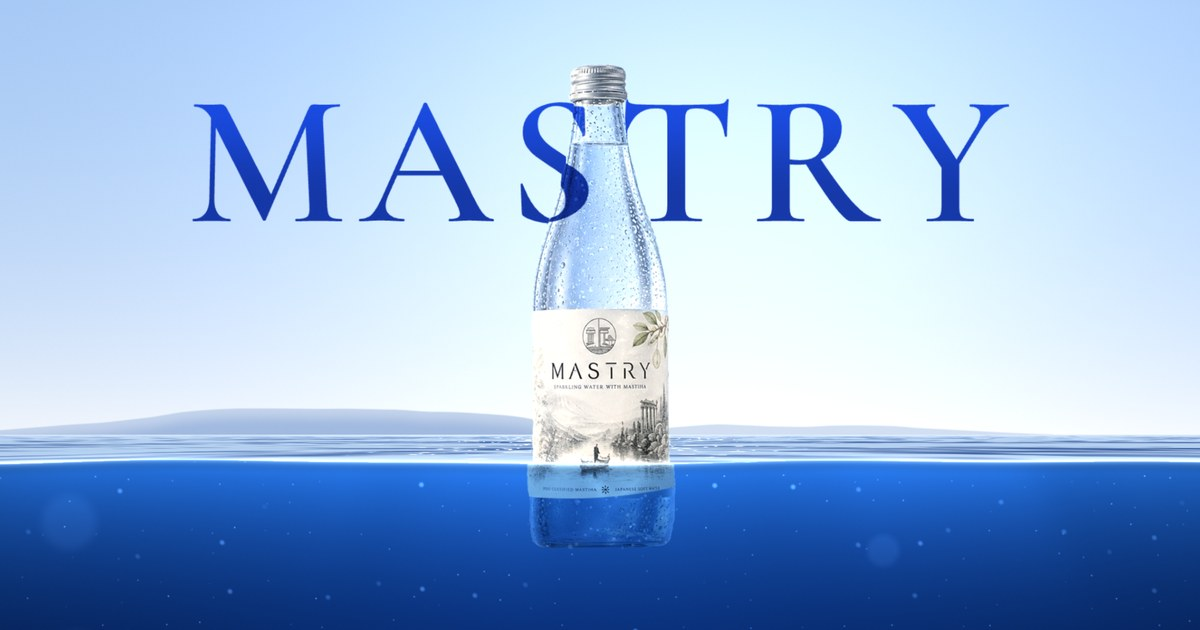
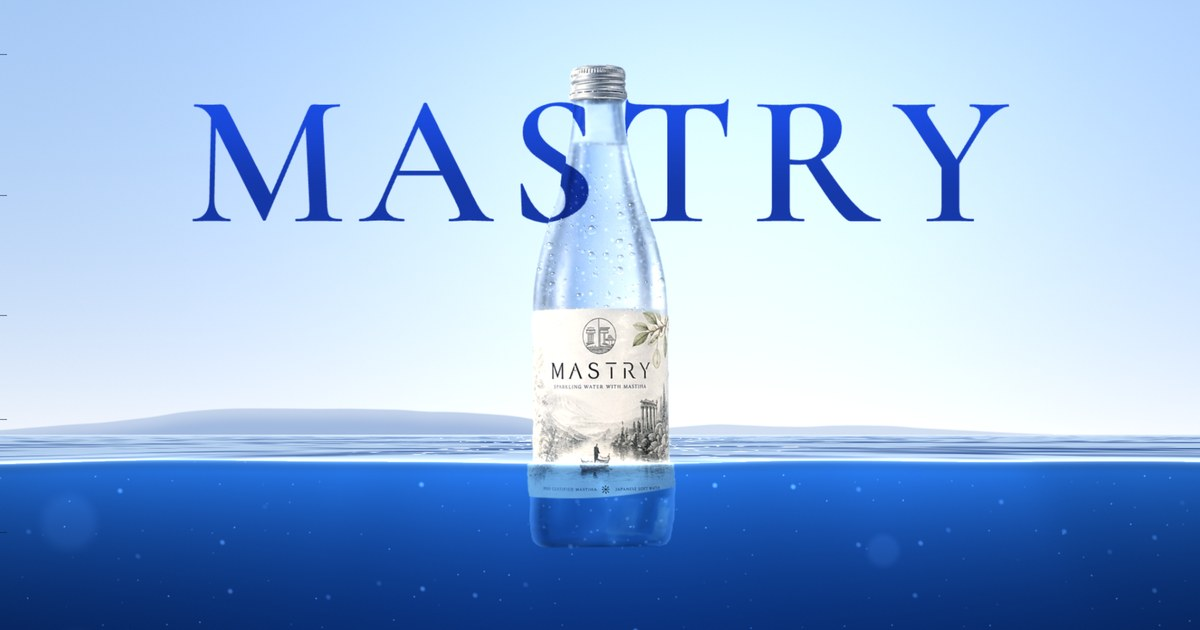
fix(dive): condensation only where the liquid is
Beads were drawn over all of the glass, including the neck above the
liquid's surface. Condensation needs cold glass: it forms where the liquid
touches it and no higher.

- Each bead is now placed or left out as a whole, by where its cell sits:
  none above the liquid's surface, thinning just under it.
- The strip of glass under the cap still carried the photographed drops
  (it was masked as part of the cap); the cap mask now ends at the metal
  and that glass is cleaned like the rest (bottle-n3, bottle-m2).
- The no-WebGL cut-out is made from the same clean glass (bottle-cut2).
- Share images re-rendered from the corrected bottle (og.jpg?v=3,
  og-dive.jpg?v=2).

diff --git a/index.html b/index.html
@@ -7,11 +7,11 @@
 <link rel="canonical" href="https://mastry.jp/" />
 <meta property="og:title" content="MASTRY — 静けさを飲むプレミアム・スパークリングウォーター" />
 <meta property="og:description" content="ギリシャ・ヒオス島のマスティハと日本の湧水から生まれた、砂糖不使用のプレミアム・スパークリングウォーター。数量限定の初回ロット、先行登録受付中。" />
-<meta property="og:image" content="https://mastry.jp/assets/og.jpg?v=2" />
+<meta property="og:image" content="https://mastry.jp/assets/og.jpg?v=3" />
 <meta property="og:url" content="https://mastry.jp/" />
 <meta property="og:type" content="website"><meta property="og:site_name" content="MASTRY"><meta property="og:locale" content="ja_JP"><meta property="og:locale:alternate" content="en_US"><meta property="og:image:width" content="1200"><meta property="og:image:height" content="630">
 <meta name="twitter:card" content="summary_large_image" />
-<meta name="twitter:title" content="MASTRY — 静けさを飲むプレミアム・スパークリングウォーター"><meta name="twitter:description" content="ギリシャ・ヒオス島のマスティハと日本の湧水から生まれた、砂糖不使用のプレミアム・スパークリングウォーター。数量限定の初回ロット、先行登録受付中。"><meta name="twitter:image" content="https://mastry.jp/assets/og.jpg?v=2">
+<meta name="twitter:title" content="MASTRY — 静けさを飲むプレミアム・スパークリングウォーター"><meta name="twitter:description" content="ギリシャ・ヒオス島のマスティハと日本の湧水から生まれた、砂糖不使用のプレミアム・スパークリングウォーター。数量限定の初回ロット、先行登録受付中。"><meta name="twitter:image" content="https://mastry.jp/assets/og.jpg?v=3">
 <script>/* THE DIVE opening gate (per session) */(function(){try{
   if(location.hash||/[?&]nodive/.test(location.search))return;        /* アンカー/明示スキップ */
   if(/bot|crawl|spider|lighthouse|preview/i.test(navigator.userAgent))return; /* 検索エンジン除外 */
@@ -27,7 +27,7 @@
 document.documentElement.className+=' lang-pending';setTimeout(function(){document.documentElement.classList.remove('lang-pending')},3000);</script>
 <style>html.lang-pending body,html.to-dive body{visibility:hidden}</style>
 <link rel="icon" href="/favicon.svg" type="image/svg+xml"><link rel="apple-touch-icon" href="/apple-touch-icon.png">
-<script type="application/ld+json">[{"@context": "https://schema.org", "@type": "Organization", "name": "MASTRY", "legalName": "MASTRY合同会社", "url": "https://mastry.jp/", "logo": "https://mastry.jp/assets/logo-512.png", "image": "https://mastry.jp/assets/og.jpg?v=2", "description": "ギリシャ・ヒオス島のマスティハと日本の湧水から生まれたプレミアム・スパークリングウォーター。", "email": "hello@mastry.jp", "sameAs": ["https://line.me/R/ti/p/@469dufhi"], "address": {"@type": "PostalAddress", "streetAddress": "2762-121 Narachō, Aoba-ku", "addressLocality": "Yokohama", "addressRegion": "Kanagawa", "postalCode": "227-0036", "addressCountry": "JP"}}, {"@context": "https://schema.org", "@type": "WebSite", "name": "MASTRY", "url": "https://mastry.jp/", "inLanguage": ["ja", "en"]}]</script>
+<script type="application/ld+json">[{"@context": "https://schema.org", "@type": "Organization", "name": "MASTRY", "legalName": "MASTRY合同会社", "url": "https://mastry.jp/", "logo": "https://mastry.jp/assets/logo-512.png", "image": "https://mastry.jp/assets/og.jpg?v=3", "description": "ギリシャ・ヒオス島のマスティハと日本の湧水から生まれたプレミアム・スパークリングウォーター。", "email": "hello@mastry.jp", "sameAs": ["https://line.me/R/ti/p/@469dufhi"], "address": {"@type": "PostalAddress", "streetAddress": "2762-121 Narachō, Aoba-ku", "addressLocality": "Yokohama", "addressRegion": "Kanagawa", "postalCode": "227-0036", "addressCountry": "JP"}}, {"@context": "https://schema.org", "@type": "WebSite", "name": "MASTRY", "url": "https://mastry.jp/", "inLanguage": ["ja", "en"]}]</script>
 <link rel="preconnect" href="https://fonts.googleapis.com">
 <link rel="preconnect" href="https://fonts.gstatic.com" crossorigin="">
 <link rel="stylesheet" href="https://fonts.googleapis.com/css2?family=Cormorant+Garamond:ital,wght@0,300;0,400;0,500;0,600;1,300;1,400&amp;family=Jost:wght@300;400;500&amp;family=Space+Mono:wght@400;700&amp;family=Zen+Old+Mincho:wght@400;500;600;700&amp;display=swap&amp;subset=greek,latin,japanese" media="print" onload="this.media='all'"><noscript><link rel="stylesheet" href="https://fonts.googleapis.com/css2?family=Cormorant+Garamond:ital,wght@0,300;0,400;0,500;0,600;1,300;1,400&amp;family=Jost:wght@300;400;500&amp;family=Space+Mono:wght@400;700&amp;family=Zen+Old+Mincho:wght@400;500;600;700&amp;display=swap&amp;subset=greek,latin,japanese"></noscript>

diff --git a/story.html b/story.html
@@ -21,14 +21,14 @@
 <meta property="og:title" content="MASTRY — 木の涙 · Tears of the Tree" />
 <meta property="og:description" content="MASTRY（マストライ）— ギリシャ・ヒオス島の希少なマスティハと日本のやわらかな湧水から生まれた、プレミアム・スパークリングウォーター。砂糖不使用。" />
 <meta property="og:url" content="https://mastry.jp/story.html" />
-<meta property="og:image" content="https://mastry.jp/assets/og.jpg?v=2" />
+<meta property="og:image" content="https://mastry.jp/assets/og.jpg?v=3" />
 <meta property="og:image:width" content="1200" /><meta property="og:image:height" content="630" />
 <meta property="og:locale" content="ja_JP" /><meta property="og:locale:alternate" content="en_US" />
 <meta name="twitter:card" content="summary_large_image" />
 <meta name="twitter:title" content="MASTRY — 木の涙 · Tears of the Tree" />
 <meta name="twitter:description" content="MASTRY（マストライ）— ギリシャ・ヒオス島の希少なマスティハと日本のやわらかな湧水から生まれた、プレミアム・スパークリングウォーター。砂糖不使用。" />
-<meta name="twitter:image" content="https://mastry.jp/assets/og.jpg?v=2" />
-<script type="application/ld+json">[{"@context": "https://schema.org", "@type": "Organization", "name": "MASTRY", "legalName": "MASTRY合同会社", "url": "https://mastry.jp/", "logo": "https://mastry.jp/assets/logo-512.png", "image": "https://mastry.jp/assets/og.jpg?v=2", "description": "ギリシャ・ヒオス島のマスティハと日本の湧水から生まれたプレミアム・スパークリングウォーター。", "email": "hello@mastry.jp", "sameAs": ["https://line.me/R/ti/p/@469dufhi"], "address": {"@type": "PostalAddress", "streetAddress": "2762-121 Narachō, Aoba-ku", "addressLocality": "Yokohama", "addressRegion": "Kanagawa", "postalCode": "227-0036", "addressCountry": "JP"}}, {"@context": "https://schema.org", "@type": "WebSite", "name": "MASTRY", "url": "https://mastry.jp/", "inLanguage": ["ja", "en"]}]</script>
+<meta name="twitter:image" content="https://mastry.jp/assets/og.jpg?v=3" />
+<script type="application/ld+json">[{"@context": "https://schema.org", "@type": "Organization", "name": "MASTRY", "legalName": "MASTRY合同会社", "url": "https://mastry.jp/", "logo": "https://mastry.jp/assets/logo-512.png", "image": "https://mastry.jp/assets/og.jpg?v=3", "description": "ギリシャ・ヒオス島のマスティハと日本の湧水から生まれたプレミアム・スパークリングウォーター。", "email": "hello@mastry.jp", "sameAs": ["https://line.me/R/ti/p/@469dufhi"], "address": {"@type": "PostalAddress", "streetAddress": "2762-121 Narachō, Aoba-ku", "addressLocality": "Yokohama", "addressRegion": "Kanagawa", "postalCode": "227-0036", "addressCountry": "JP"}}, {"@context": "https://schema.org", "@type": "WebSite", "name": "MASTRY", "url": "https://mastry.jp/", "inLanguage": ["ja", "en"]}]</script>
 <link rel="icon" href="/favicon.svg" type="image/svg+xml"><link rel="apple-touch-icon" href="/apple-touch-icon.png">
 <link rel="preconnect" href="https://fonts.googleapis.com">
 <link rel="preconnect" href="https://fonts.gstatic.com" crossorigin>

diff --git a/journal/sushi-sparkling-water-pairing.html b/journal/sushi-sparkling-water-pairing.html
@@ -8,12 +8,12 @@
 <link rel="canonical" href="https://mastry.jp/journal/sushi-sparkling-water-pairing.html">
 <meta property="og:title" content="寿司と炭酸水のペアリング——日本の食卓に合う発泡水の選び方">
 <meta property="og:description" content="寿司に合う炭酸水とは。ネタの繊細な味わいを消さず、口の中をすっと整える。寿司と炭酸水のペアリングの考え方と、日本の食卓に合う発泡水の選び方をまとめました。">
-<meta property="og:image" content="https://mastry.jp/assets/og.jpg?v=2">
+<meta property="og:image" content="https://mastry.jp/assets/og.jpg?v=3">
 <meta property="og:type" content="article">
 <meta property="og:url" content="https://mastry.jp/journal/sushi-sparkling-water-pairing.html">
 <meta property="og:site_name" content="MASTRY">
 <meta name="twitter:card" content="summary_large_image">
-<script type="application/ld+json">{"@context":"https://schema.org","@type":"Article","headline":"寿司と炭酸水のペアリング——日本の食卓に合う発泡水の選び方","description":"寿司に合う炭酸水とは。ネタの繊細な味わいを消さず、口の中をすっと整える。寿司と炭酸水のペアリングの考え方と、日本の食卓に合う発泡水の選び方をまとめました。","datePublished":"2026-07-07","author":{"@type":"Organization","name":"MASTRY合同会社"},"publisher":{"@type":"Organization","name":"MASTRY合同会社","logo":{"@type":"ImageObject","url":"https://mastry.jp/assets/logo-512.png"}},"image":"https://mastry.jp/assets/og.jpg?v=2","mainEntityOfPage":"https://mastry.jp/journal/sushi-sparkling-water-pairing.html"}</script>
+<script type="application/ld+json">{"@context":"https://schema.org","@type":"Article","headline":"寿司と炭酸水のペアリング——日本の食卓に合う発泡水の選び方","description":"寿司に合う炭酸水とは。ネタの繊細な味わいを消さず、口の中をすっと整える。寿司と炭酸水のペアリングの考え方と、日本の食卓に合う発泡水の選び方をまとめました。","datePublished":"2026-07-07","author":{"@type":"Organization","name":"MASTRY合同会社"},"publisher":{"@type":"Organization","name":"MASTRY合同会社","logo":{"@type":"ImageObject","url":"https://mastry.jp/assets/logo-512.png"}},"image":"https://mastry.jp/assets/og.jpg?v=3","mainEntityOfPage":"https://mastry.jp/journal/sushi-sparkling-water-pairing.html"}</script>
 <link rel="icon" href="/favicon.svg" type="image/svg+xml"><link rel="apple-touch-icon" href="/apple-touch-icon.png">
 <link rel="preconnect" href="https://fonts.googleapis.com"><link rel="preconnect" href="https://fonts.gstatic.com" crossorigin>
 <link rel="stylesheet" href="https://fonts.googleapis.com/css2?family=Cormorant+Garamond:wght@500&family=Zen+Old+Mincho:wght@400;600&display=swap" media="print" onload="this.media='all'"><noscript><link rel="stylesheet" href="https://fonts.googleapis.com/css2?family=Cormorant+Garamond:wght@500&family=Zen+Old+Mincho:wght@400;600&display=swap"></noscript>

diff --git a/journal/sober-curious.html b/journal/sober-curious.html
@@ -8,12 +8,12 @@
 <link rel="canonical" href="https://mastry.jp/journal/sober-curious.html">
 <meta property="og:title" content="ソバーキュリアスとは——「あえて飲まない」を選ぶ夜の一杯">
 <meta property="og:description" content="ソバーキュリアスとは、あえてお酒を飲まないという選択のこと。言葉の認知は約1割でも、実際に「飲まない日」を選ぶ人は4割を超えます。飲まない夜に寄り添う一杯の選び方を。">
-<meta property="og:image" content="https://mastry.jp/assets/og.jpg?v=2">
+<meta property="og:image" content="https://mastry.jp/assets/og.jpg?v=3">
 <meta property="og:type" content="article">
 <meta property="og:url" content="https://mastry.jp/journal/sober-curious.html">
 <meta property="og:site_name" content="MASTRY">
 <meta name="twitter:card" content="summary_large_image">
-<script type="application/ld+json">{"@context":"https://schema.org","@type":"Article","headline":"ソバーキュリアスとは——「あえて飲まない」を選ぶ夜の一杯","description":"ソバーキュリアスとは、あえてお酒を飲まないという選択のこと。言葉の認知は約1割でも、実際に「飲まない日」を選ぶ人は4割を超えます。飲まない夜に寄り添う一杯の選び方を考えます。","datePublished":"2026-07-07","author":{"@type":"Organization","name":"MASTRY合同会社"},"publisher":{"@type":"Organization","name":"MASTRY合同会社","logo":{"@type":"ImageObject","url":"https://mastry.jp/assets/logo-512.png"}},"image":"https://mastry.jp/assets/og.jpg?v=2","mainEntityOfPage":"https://mastry.jp/journal/sober-curious.html"}</script>
+<script type="application/ld+json">{"@context":"https://schema.org","@type":"Article","headline":"ソバーキュリアスとは——「あえて飲まない」を選ぶ夜の一杯","description":"ソバーキュリアスとは、あえてお酒を飲まないという選択のこと。言葉の認知は約1割でも、実際に「飲まない日」を選ぶ人は4割を超えます。飲まない夜に寄り添う一杯の選び方を考えます。","datePublished":"2026-07-07","author":{"@type":"Organization","name":"MASTRY合同会社"},"publisher":{"@type":"Organization","name":"MASTRY合同会社","logo":{"@type":"ImageObject","url":"https://mastry.jp/assets/logo-512.png"}},"image":"https://mastry.jp/assets/og.jpg?v=3","mainEntityOfPage":"https://mastry.jp/journal/sober-curious.html"}</script>
 <link rel="icon" href="/favicon.svg" type="image/svg+xml"><link rel="apple-touch-icon" href="/apple-touch-icon.png">
 <link rel="preconnect" href="https://fonts.googleapis.com"><link rel="preconnect" href="https://fonts.gstatic.com" crossorigin>
 <link rel="stylesheet" href="https://fonts.googleapis.com/css2?family=Cormorant+Garamond:wght@500&family=Zen+Old+Mincho:wght@400;600&display=swap" media="print" onload="this.media='all'"><noscript><link rel="stylesheet" href="https://fonts.googleapis.com/css2?family=Cormorant+Garamond:wght@500&family=Zen+Old+Mincho:wght@400;600&display=swap"></noscript>

diff --git a/journal/non-alcoholic-gift.html b/journal/non-alcoholic-gift.html
@@ -8,12 +8,12 @@
 <link rel="canonical" href="https://mastry.jp/journal/non-alcoholic-gift.html">
 <meta property="og:title" content="ノンアルコールのギフトという選択——お酒を飲まない人への贈り物">
 <meta property="og:description" content="お酒を飲まない人へ何を贈るか。ノンアルコールのギフトが選ばれる背景と、相手の時間に寄り添う一本の選び方を、マスティハ・スパークリングウォーターの視点から。">
-<meta property="og:image" content="https://mastry.jp/assets/og.jpg?v=2">
+<meta property="og:image" content="https://mastry.jp/assets/og.jpg?v=3">
 <meta property="og:type" content="article">
 <meta property="og:url" content="https://mastry.jp/journal/non-alcoholic-gift.html">
 <meta property="og:site_name" content="MASTRY">
 <meta name="twitter:card" content="summary_large_image">
-<script type="application/ld+json">{"@context":"https://schema.org","@type":"Article","headline":"ノンアルコールのギフトという選択——お酒を飲まない人への贈り物","description":"お酒を飲まない人へ何を贈るか。ノンアルコールのギフトが選ばれる背景と、相手の時間に寄り添う一本の選び方を、マスティハ・スパークリングウォーターの視点から。","datePublished":"2026-06-25","author":{"@type":"Organization","name":"MASTRY合同会社"},"publisher":{"@type":"Organization","name":"MASTRY合同会社","logo":{"@type":"ImageObject","url":"https://mastry.jp/assets/logo-512.png"}},"image":"https://mastry.jp/assets/og.jpg?v=2","mainEntityOfPage":"https://mastry.jp/journal/non-alcoholic-gift.html"}</script>
+<script type="application/ld+json">{"@context":"https://schema.org","@type":"Article","headline":"ノンアルコールのギフトという選択——お酒を飲まない人への贈り物","description":"お酒を飲まない人へ何を贈るか。ノンアルコールのギフトが選ばれる背景と、相手の時間に寄り添う一本の選び方を、マスティハ・スパークリングウォーターの視点から。","datePublished":"2026-06-25","author":{"@type":"Organization","name":"MASTRY合同会社"},"publisher":{"@type":"Organization","name":"MASTRY合同会社","logo":{"@type":"ImageObject","url":"https://mastry.jp/assets/logo-512.png"}},"image":"https://mastry.jp/assets/og.jpg?v=3","mainEntityOfPage":"https://mastry.jp/journal/non-alcoholic-gift.html"}</script>
 <link rel="icon" href="/favicon.svg" type="image/svg+xml"><link rel="apple-touch-icon" href="/apple-touch-icon.png">
 <link rel="preconnect" href="https://fonts.googleapis.com"><link rel="preconnect" href="https://fonts.gstatic.com" crossorigin>
 <link rel="stylesheet" href="https://fonts.googleapis.com/css2?family=Cormorant+Garamond:wght@500&family=Zen+Old+Mincho:wght@400;600&display=swap" media="print" onload="this.media='all'"><noscript><link rel="stylesheet" href="https://fonts.googleapis.com/css2?family=Cormorant+Garamond:wght@500&family=Zen+Old+Mincho:wght@400;600&display=swap"></noscript>

diff --git a/journal/sauna-sparkling-water.html b/journal/sauna-sparkling-water.html
@@ -8,12 +8,12 @@
 <link rel="canonical" href="https://mastry.jp/journal/sauna-sparkling-water.html">
 <meta property="og:title" content="サウナ後の一杯に炭酸水が合う理由——「ととのい」を壊さない選び方">
 <meta property="og:description" content="サウナ後の炭酸水はなぜおいしいのか。ととのいの余韻を壊さない一杯の選び方を、3つの目安で紹介します。">
-<meta property="og:image" content="https://mastry.jp/assets/og.jpg?v=2">
+<meta property="og:image" content="https://mastry.jp/assets/og.jpg?v=3">
 <meta property="og:type" content="article">
 <meta property="og:url" content="https://mastry.jp/journal/sauna-sparkling-water.html">
 <meta property="og:site_name" content="MASTRY">
 <meta name="twitter:card" content="summary_large_image">
-<script type="application/ld+json">{"@context":"https://schema.org","@type":"Article","headline":"サウナ後の一杯に炭酸水が合う理由——「ととのい」を壊さない選び方","description":"サウナ後の炭酸水はなぜおいしいのか。ととのいの余韻を壊さない一杯の選び方を、3つの目安で紹介します。","datePublished":"2026-06-11","author":{"@type":"Organization","name":"MASTRY合同会社"},"publisher":{"@type":"Organization","name":"MASTRY合同会社","logo":{"@type":"ImageObject","url":"https://mastry.jp/assets/logo-512.png"}},"image":"https://mastry.jp/assets/og.jpg?v=2","mainEntityOfPage":"https://mastry.jp/journal/sauna-sparkling-water.html"}</script>
+<script type="application/ld+json">{"@context":"https://schema.org","@type":"Article","headline":"サウナ後の一杯に炭酸水が合う理由——「ととのい」を壊さない選び方","description":"サウナ後の炭酸水はなぜおいしいのか。ととのいの余韻を壊さない一杯の選び方を、3つの目安で紹介します。","datePublished":"2026-06-11","author":{"@type":"Organization","name":"MASTRY合同会社"},"publisher":{"@type":"Organization","name":"MASTRY合同会社","logo":{"@type":"ImageObject","url":"https://mastry.jp/assets/logo-512.png"}},"image":"https://mastry.jp/assets/og.jpg?v=3","mainEntityOfPage":"https://mastry.jp/journal/sauna-sparkling-water.html"}</script>
 <link rel="icon" href="/favicon.svg" type="image/svg+xml"><link rel="apple-touch-icon" href="/apple-touch-icon.png">
 <link rel="preconnect" href="https://fonts.googleapis.com"><link rel="preconnect" href="https://fonts.gstatic.com" crossorigin>
 <link rel="stylesheet" href="https://fonts.googleapis.com/css2?family=Cormorant+Garamond:wght@500&family=Zen+Old+Mincho:wght@400;600&display=swap" media="print" onload="this.media='all'"><noscript><link rel="stylesheet" href="https://fonts.googleapis.com/css2?family=Cormorant+Garamond:wght@500&family=Zen+Old+Mincho:wght@400;600&display=swap"></noscript>

diff --git a/journal/what-is-mastiha.html b/journal/what-is-mastiha.html
@@ -8,12 +8,12 @@
 <link rel="canonical" href="https://mastry.jp/journal/what-is-mastiha.html">
 <meta property="og:title" content="マスティハとは——世界でただひとつの島が育てる「木の涙」の話">
 <meta property="og:description" content="マスティハとは何か。ギリシャ・ヒオス島だけで採れる希少樹脂の歴史、PDO認証、味と香りをやさしく解説します。">
-<meta property="og:image" content="https://mastry.jp/assets/og.jpg?v=2">
+<meta property="og:image" content="https://mastry.jp/assets/og.jpg?v=3">
 <meta property="og:type" content="article">
 <meta property="og:url" content="https://mastry.jp/journal/what-is-mastiha.html">
 <meta property="og:site_name" content="MASTRY">
 <meta name="twitter:card" content="summary_large_image">
-<script type="application/ld+json">{"@context":"https://schema.org","@type":"Article","headline":"マスティハとは——世界でただひとつの島が育てる「木の涙」の話","description":"マスティハとは何か。ギリシャ・ヒオス島だけで採れる希少樹脂の歴史、PDO認証、味と香りをやさしく解説します。","datePublished":"2026-06-11","author":{"@type":"Organization","name":"MASTRY合同会社"},"publisher":{"@type":"Organization","name":"MASTRY合同会社","logo":{"@type":"ImageObject","url":"https://mastry.jp/assets/logo-512.png"}},"image":"https://mastry.jp/assets/og.jpg?v=2","mainEntityOfPage":"https://mastry.jp/journal/what-is-mastiha.html"}</script>
+<script type="application/ld+json">{"@context":"https://schema.org","@type":"Article","headline":"マスティハとは——世界でただひとつの島が育てる「木の涙」の話","description":"マスティハとは何か。ギリシャ・ヒオス島だけで採れる希少樹脂の歴史、PDO認証、味と香りをやさしく解説します。","datePublished":"2026-06-11","author":{"@type":"Organization","name":"MASTRY合同会社"},"publisher":{"@type":"Organization","name":"MASTRY合同会社","logo":{"@type":"ImageObject","url":"https://mastry.jp/assets/logo-512.png"}},"image":"https://mastry.jp/assets/og.jpg?v=3","mainEntityOfPage":"https://mastry.jp/journal/what-is-mastiha.html"}</script>
 <link rel="icon" href="/favicon.svg" type="image/svg+xml"><link rel="apple-touch-icon" href="/apple-touch-icon.png">
 <link rel="preconnect" href="https://fonts.googleapis.com"><link rel="preconnect" href="https://fonts.gstatic.com" crossorigin>
 <link rel="stylesheet" href="https://fonts.googleapis.com/css2?family=Cormorant+Garamond:wght@500&family=Zen+Old+Mincho:wght@400;600&display=swap" media="print" onload="this.media='all'"><noscript><link rel="stylesheet" href="https://fonts.googleapis.com/css2?family=Cormorant+Garamond:wght@500&family=Zen+Old+Mincho:wght@400;600&display=swap"></noscript>

diff --git a/dive.html b/dive.html
@@ -17,19 +17,19 @@
 <link rel="canonical" href="https://mastry.jp/dive.html" />
 <meta property="og:title" content="MASTRY — The Dive ｜ 息を止めて、潜る。" />
 <meta property="og:description" content="スクロールで海へ。ヒオス島の木の涙が、日本の湧水に沈むまで。" />
-<meta property="og:image" content="https://mastry.jp/assets/og-dive.jpg" />
+<meta property="og:image" content="https://mastry.jp/assets/og-dive.jpg?v=2" />
 <meta property="og:image:width" content="1200" /><meta property="og:image:height" content="630" />
 <meta property="og:url" content="https://mastry.jp/dive.html" />
 <meta property="og:type" content="website" /><meta property="og:site_name" content="MASTRY" />
 <meta name="twitter:card" content="summary_large_image" />
-<meta name="twitter:image" content="https://mastry.jp/assets/og-dive.jpg" />
+<meta name="twitter:image" content="https://mastry.jp/assets/og-dive.jpg?v=2" />
 <meta name="theme-color" content="#cfe3f8" />
 <link rel="icon" href="/favicon.svg" type="image/svg+xml" />
 <link rel="apple-touch-icon" href="/apple-touch-icon.png" />
 <link rel="preconnect" href="https://fonts.googleapis.com" />
 <link rel="preconnect" href="https://fonts.gstatic.com" crossorigin />
-<link rel="preload" as="image" href="/assets/dive/bottle-n2.webp" type="image/webp" />
-<link rel="preload" as="image" href="/assets/dive/bottle-m.png" />
+<link rel="preload" as="image" href="/assets/dive/bottle-n3.webp" type="image/webp" />
+<link rel="preload" as="image" href="/assets/dive/bottle-m2.png" />
 <link href="https://fonts.googleapis.com/css2?family=Cormorant+Garamond:wght@500;600&amp;family=Jost:wght@300;400;500&amp;family=Zen+Old+Mincho:wght@400;600&amp;display=swap" rel="stylesheet" />
 <style>
 :root{
@@ -316,7 +316,7 @@ html{background:linear-gradient(#b9d4f4 0,#eaf1fb 7%,#0e3a7a 15%,#02060d 50%,#02
       <dt data-en="Sugar · sweeteners">砂糖・甘味料</dt><dd data-en="None">不使用</dd>
     </dl>
   </section>
-  <img class="fb-bottle" src="/assets/dive/bottle-cut.webp" alt="" width="236" height="815" loading="lazy" decoding="async" />
+  <img class="fb-bottle" src="/assets/dive/bottle-cut2.webp" alt="" width="236" height="815" loading="lazy" decoding="async" />
   <div class="cue" id="cue" aria-hidden="true"><span data-en="Scroll to dive">スクロールして潜る</span><i></i></div>
 
   <section class="beat v" id="b1" aria-hidden="true" data-screen-label="Dive — Plunge">
@@ -364,6 +364,6 @@ html{background:linear-gradient(#b9d4f4 0,#eaf1fb 7%,#0e3a7a 15%,#02060d 50%,#02
 <div class="runway" aria-hidden="true"></div>
 
 <script>try{sessionStorage.setItem('mastry-dived','1')}catch(e){}</script>
-<script src="/assets/dive.js?v=11"></script>
+<script src="/assets/dive.js?v=12"></script>
 </body>
 </html>

diff --git a/_agent/article_template.html b/_agent/article_template.html
@@ -8,12 +8,12 @@
 <link rel="canonical" href="https://mastry.jp/journal/{{SLUG}}.html">
 <meta property="og:title" content="{{TITLE}}">
 <meta property="og:description" content="{{DESCRIPTION}}">
-<meta property="og:image" content="https://mastry.jp/assets/og.jpg?v=2">
+<meta property="og:image" content="https://mastry.jp/assets/og.jpg?v=3">
 <meta property="og:type" content="article">
 <meta property="og:url" content="https://mastry.jp/journal/{{SLUG}}.html">
 <meta property="og:site_name" content="MASTRY">
 <meta name="twitter:card" content="summary_large_image">
-<script type="application/ld+json">{"@context":"https://schema.org","@type":"Article","headline":"{{TITLE}}","description":"{{DESCRIPTION}}","datePublished":"{{DATE}}","author":{"@type":"Organization","name":"MASTRY合同会社"},"publisher":{"@type":"Organization","name":"MASTRY合同会社","logo":{"@type":"ImageObject","url":"https://mastry.jp/assets/logo-512.png"}},"image":"https://mastry.jp/assets/og.jpg?v=2","mainEntityOfPage":"https://mastry.jp/journal/{{SLUG}}.html"}</script>
+<script type="application/ld+json">{"@context":"https://schema.org","@type":"Article","headline":"{{TITLE}}","description":"{{DESCRIPTION}}","datePublished":"{{DATE}}","author":{"@type":"Organization","name":"MASTRY合同会社"},"publisher":{"@type":"Organization","name":"MASTRY合同会社","logo":{"@type":"ImageObject","url":"https://mastry.jp/assets/logo-512.png"}},"image":"https://mastry.jp/assets/og.jpg?v=3","mainEntityOfPage":"https://mastry.jp/journal/{{SLUG}}.html"}</script>
 <link rel="icon" href="/favicon.svg" type="image/svg+xml"><link rel="apple-touch-icon" href="/apple-touch-icon.png">
 <link rel="preconnect" href="https://fonts.googleapis.com"><link rel="preconnect" href="https://fonts.gstatic.com" crossorigin>
 <link rel="stylesheet" href="https://fonts.googleapis.com/css2?family=Cormorant+Garamond:wght@500&family=Zen+Old+Mincho:wght@400;600&display=swap" media="print" onload="this.media='all'"><noscript><link rel="stylesheet" href="https://fonts.googleapis.com/css2?family=Cormorant+Garamond:wght@500&family=Zen+Old+Mincho:wght@400;600&display=swap"></noscript>

diff --git a/assets/dive.js b/assets/dive.js
@@ -428,7 +428,11 @@ vec4 dew(vec2 b,float n,float dens,float seed,float px){
   vec2 g=b*n;
   vec2 id=floor(g),f=fract(g);
   vec2 h=hash22(id+seed);
-  float on=step(1.-dens,hash12(id*1.31+seed+.7));
+  /* condensation needs cold glass: it forms where the liquid touches it, up to the liquid's surface in the neck and no higher */
+  vec2 cc=(id+.5)/n;
+  float top=.822+(noise(vec2(cc.x*55.,seed))-.5)*.016;
+  dens*=smoothstep(top,top-.07,cc.y+.5/n)*smoothstep(.0,.05,cc.y);
+  float on=step(1.-dens,hash12(id*1.31+seed+.7))*step(cc.y+.5/n,top);
   float r=mix(.14,.36,h.x*h.x);
   float tall=mix(1.,.78,h.y*h.y);
   vec2 rr=vec2(r,r/tall)+.02;
@@ -641,10 +645,9 @@ void main(){
     if(wet>.01){
       vec2 bq=q/H;
       float px=1./(uRes.y*H);
-      float thin=mix(.50,1.,smoothstep(.97,.72,bq.y))*smoothstep(.0,.05,bq.y);
-      g=dewOn(g,dew(bq,36.,.40*thin,3.1,px),wet);
-      g=dewOn(g,dew(bq+vec2(.013,.007),80.,.50*thin,7.7,px),wet);
-      if(uQ>.5)g=dewOn(g,dew(bq+vec2(.004,.019),168.,.44*thin,12.9,px),wet*.8);
+      g=dewOn(g,dew(bq,36.,.40,3.1,px),wet);
+      g=dewOn(g,dew(bq+vec2(.013,.007),80.,.50,7.7,px),wet);
+      if(uQ>.5)g=dewOn(g,dew(bq+vec2(.004,.019),168.,.44,12.9,px),wet*.8);
     }
     /* paper and metal, under whatever light there is */
     vec3 o=min(N,vec3(1.25))*amb;
@@ -885,8 +888,8 @@ function load(src,done,alt){
 function pictures(){
   var need=2;
   function got(){if(--need===0){haveBottle=!!(img.n&&img.m);if(!haveBottle){intro=1;}}}
-  load('/assets/dive/bottle-n2.webp',function(im){img.n=im;if(im)setTex('n',im);got();},'/assets/dive/bottle-n2.jpg');
-  load('/assets/dive/bottle-m.png',function(im){img.m=im;if(im)setTex('m',im);got();},null);
+  load('/assets/dive/bottle-n3.webp',function(im){img.n=im;if(im)setTex('n',im);got();},'/assets/dive/bottle-n3.jpg');
+  load('/assets/dive/bottle-m2.png',function(im){img.m=im;if(im)setTex('m',im);got();},null);
   /* the two photographs are not needed until a third of the way down */
   var later=function(){
     load('/assets/dive/vis-resin.jpg',function(im){img.a=im;if(im)setTex('a',im);},null);

diff --git a/about.html b/about.html
@@ -21,13 +21,13 @@
 <meta property="og:title" content="私たちについて｜MASTRY" />
 <meta property="og:description" content="MASTRYについて。ヒオス島のマスティハと日本の湧水が出会う、静けさのための一杯。会社情報と創業者のことば。" />
 <meta property="og:url" content="https://mastry.jp/about.html" />
-<meta property="og:image" content="https://mastry.jp/assets/og.jpg?v=2" />
+<meta property="og:image" content="https://mastry.jp/assets/og.jpg?v=3" />
 <meta property="og:image:width" content="1200" /><meta property="og:image:height" content="630" />
 <meta property="og:locale" content="ja_JP" /><meta property="og:locale:alternate" content="en_US" />
 <meta name="twitter:card" content="summary_large_image" />
 <meta name="twitter:title" content="私たちについて｜MASTRY" />
 <meta name="twitter:description" content="MASTRYについて。ヒオス島のマスティハと日本の湧水が出会う、静けさのための一杯。会社情報と創業者のことば。" />
-<meta name="twitter:image" content="https://mastry.jp/assets/og.jpg?v=2" />
+<meta name="twitter:image" content="https://mastry.jp/assets/og.jpg?v=3" />
 <link rel="icon" href="/favicon.svg" type="image/svg+xml"><link rel="apple-touch-icon" href="/apple-touch-icon.png">
 <link rel="preconnect" href="https://fonts.googleapis.com"><link rel="preconnect" href="https://fonts.gstatic.com" crossorigin>
 <link rel="stylesheet" href="https://fonts.googleapis.com/css2?family=Cormorant+Garamond:ital,wght@0,300;0,400;0,500;0,600;1,300;1,400&family=Jost:wght@300;400;500&family=Space+Mono:wght@400;700&family=Zen+Old+Mincho:wght@400;500;600;700&display=swap&subset=greek,latin,japanese" media="print" onload="this.media='all'"><noscript><link rel="stylesheet" href="https://fonts.googleapis.com/css2?family=Cormorant+Garamond:ital,wght@0,300;0,400;0,500;0,600;1,300;1,400&family=Jost:wght@300;400;500&family=Space+Mono:wght@400;700&family=Zen+Old+Mincho:wght@400;500;600;700&display=swap&subset=greek,latin,japanese"></noscript>

diff --git a/sustainability.html b/sustainability.html
@@ -21,13 +21,13 @@
 <meta property="og:title" content="サステナビリティ｜MASTRY" />
 <meta property="og:description" content="MASTRYのサステナビリティ。PDO認証のヒオス島マスティハ、責任ある水源、砂糖不使用、ガラス容器。" />
 <meta property="og:url" content="https://mastry.jp/sustainability.html" />
-<meta property="og:image" content="https://mastry.jp/assets/og.jpg?v=2" />
+<meta property="og:image" content="https://mastry.jp/assets/og.jpg?v=3" />
 <meta property="og:image:width" content="1200" /><meta property="og:image:height" content="630" />
 <meta property="og:locale" content="ja_JP" /><meta property="og:locale:alternate" content="en_US" />
 <meta name="twitter:card" content="summary_large_image" />
 <meta name="twitter:title" content="サステナビリティ｜MASTRY" />
 <meta name="twitter:description" content="MASTRYのサステナビリティ。PDO認証のヒオス島マスティハ、責任ある水源、砂糖不使用、ガラス容器。" />
-<meta name="twitter:image" content="https://mastry.jp/assets/og.jpg?v=2" />
+<meta name="twitter:image" content="https://mastry.jp/assets/og.jpg?v=3" />
 <link rel="icon" href="/favicon.svg" type="image/svg+xml"><link rel="apple-touch-icon" href="/apple-touch-icon.png">
 <link rel="preconnect" href="https://fonts.googleapis.com"><link rel="preconnect" href="https://fonts.gstatic.com" crossorigin>
 <link rel="stylesheet" href="https://fonts.googleapis.com/css2?family=Cormorant+Garamond:ital,wght@0,300;0,400;0,500;0,600;1,300;1,400&family=Jost:wght@300;400;500&family=Space+Mono:wght@400;700&family=Zen+Old+Mincho:wght@400;500;600;700&display=swap&subset=greek,latin,japanese" media="print" onload="this.media='all'"><noscript><link rel="stylesheet" href="https://fonts.googleapis.com/css2?family=Cormorant+Garamond:ital,wght@0,300;0,400;0,500;0,600;1,300;1,400&family=Jost:wght@300;400;500&family=Space+Mono:wght@400;700&family=Zen+Old+Mincho:wght@400;500;600;700&display=swap&subset=greek,latin,japanese"></noscript>
